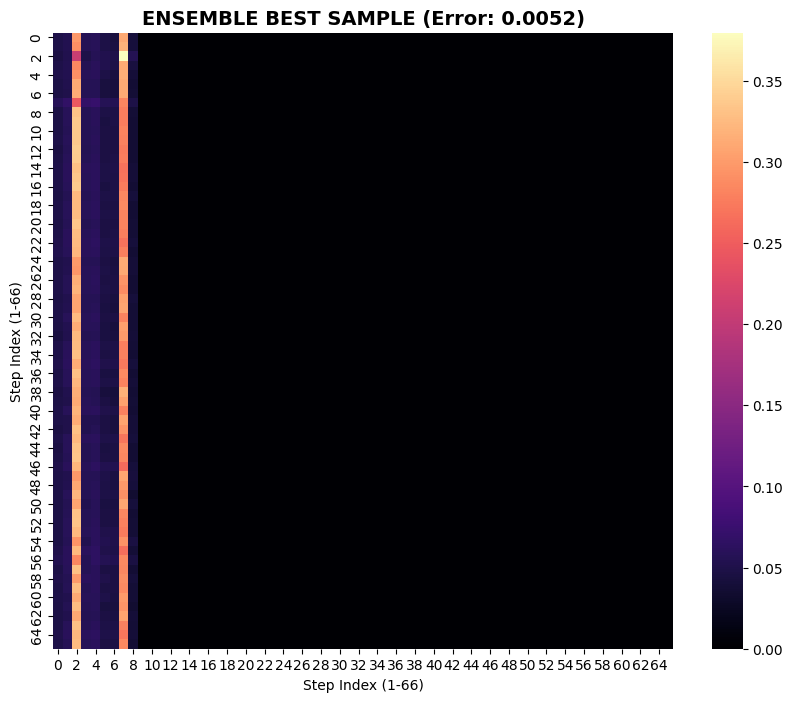
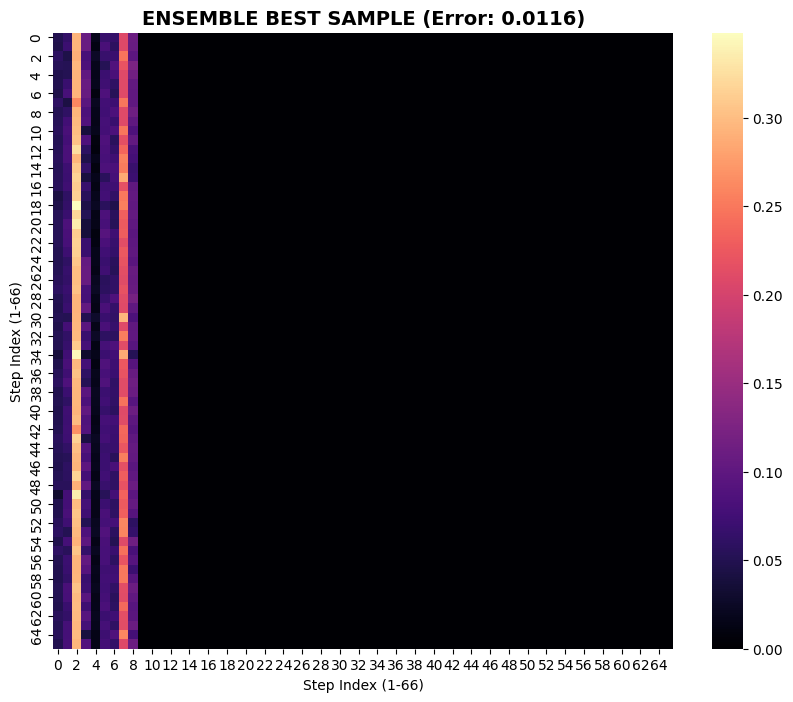
up heatmap png

diff --git a/scripts/plot/plot_feature_analysis.py b/scripts/plot/plot_feature_analysis.py
@@ -1,0 +1,147 @@
+import os
+import sys
+import torch
+import numpy as np
+import pandas as pd
+import seaborn as sns
+import matplotlib.pyplot as plt
+
+# Thêm root directory vào sys.path
+sys.path.append(os.path.abspath(os.path.join(os.path.dirname(__file__), '../../')))
+from src.models.transformer_model import TransformerModel
+
+# --- CONFIG ---
+DATA_DIR = "data/data_processed/transformer"
+MODEL_DIR = "model/kfold"
+OUTPUT_DIR = "outputs/plots"
+ATTR_NAMES = [f"attr_{i+1}" for i in range(6)]
+DEVICE = torch.device("cuda" if torch.cuda.is_available() else "cpu")
+BATCH_SIZE = 128 # Giới hạn batch size để tránh tràn RAM
+
+os.makedirs(OUTPUT_DIR, exist_ok=True)
+
+def load_ensemble_models():
+    models = []
+    folds = ["transformer_f0.pth", "transformer_f1.pth", "transformer_f2.pth"]
+    for f in folds:
+        path = os.path.join(MODEL_DIR, f)
+        if os.path.exists(path):
+            model = TransformerModel(vocab_size=30000, d_model=256, nhead=8, num_layers=4)
+            model.load_state_dict(torch.load(path, map_location=DEVICE))
+            model.to(DEVICE).eval()
+            models.append(model)
+            print(f"-> Loaded model: {f}")
+    return models
+
+def get_attr_saliency_single(models, x_input):
+    """Tính Saliency cho 1 mẫu duy nhất (Đã fix lỗi .zero_grad)"""
+    x_tensor = torch.from_numpy(x_input).long().to(DEVICE).unsqueeze(0)
+    ensemble_sal = np.zeros((6, 66))
+    
+    for model in models:
+        with torch.no_grad():
+            emb = model.embedding(x_tensor)
+        emb = emb.detach().requires_grad_(True)
+        
+        # Forward pass thủ công
+        B = emb.shape[0]
+        x = torch.cat((model.cls_token.expand(B, -1, -1), emb), dim=1)
+        x = x + model.pos_embedding
+        for layer in model.layers: x, _ = layer(x)
+        x = model.norm_final(x)
+        combined = torch.cat([x[:, 0, :], x.mean(dim=1)], dim=-1)
+        
+        out_dates = model.head_dates(combined) * model.M_dates
+        out_factory = model.head_factory(combined) * model.M_factory
+        final_out = torch.cat([out_dates[:, :2], out_factory[:, :1], out_dates[:, 2:], out_factory[:, 1:]], dim=1)
+
+        attr_grads = []
+        for i in range(6):
+            if emb.grad is not None: emb.grad.zero_()
+            final_out[0, i].backward(retain_graph=True)
+            attr_grads.append(emb.grad.detach().abs().mean(dim=-1).squeeze().cpu().numpy())
+            
+        ensemble_sal += np.array(attr_grads)
+    return ensemble_sal / len(models)
+
+def extract_manual_features(X):
+    feats = []
+    for seq in X:
+        v = seq[seq != 0]
+        if len(v) == 0: feats.append([0]*5); continue
+        feats.append([len(v), len(np.unique(v)), len(np.unique(v))/len(v), v[0], v[-1]])
+    return pd.DataFrame(feats, columns=['length', 'nunique', 'velocity', 'first_item', 'last_item'])
+
+def extract_attn_map(attn_tensor):
+    attn = attn_tensor[0]  # lấy sample đầu
+
+    if attn.dim() == 3:
+        # [heads, seq, seq]
+        attn = attn.mean(dim=0)
+    elif attn.dim() == 2:
+        # [seq, seq]
+        pass
+    else:
+        raise ValueError(f"Unexpected attention shape: {attn.shape}")
+
+    return attn[1:, 1:].cpu().numpy()
+            
+def main():
+    X_val = np.load(os.path.join(DATA_DIR, "X_val.npy"))
+    y_val = np.load(os.path.join(DATA_DIR, "y_val.npy"))
+    models = load_ensemble_models()
+    if not models: return
+
+    # --- 1. CORRELATION ---
+    print("\n[1/3] Correlation Heatmap...")
+    df_f = extract_manual_features(X_val)
+    df_t = pd.DataFrame(y_val, columns=ATTR_NAMES)
+    corr = pd.concat([df_f, df_t], axis=1).corr().loc[df_f.columns, ATTR_NAMES]
+    plt.figure(figsize=(10, 6)); sns.heatmap(corr, annot=True, cmap="coolwarm", center=0)
+    plt.title("Correlation Heatmap", fontsize=14, fontweight='bold')
+    plt.savefig(os.path.join(OUTPUT_DIR, "heatmap_correlation.png")); plt.close()
+
+    # --- 2. SALIENCY ---
+    print("[2/3] Attribute Saliency Map (50 samples)...")
+    total_sal = np.zeros((6, 66))
+    indices = np.random.choice(len(X_val), 50, replace=False)
+    for idx in indices:
+        total_sal += get_attr_saliency_single(models, X_val[idx])
+    avg_sal = total_sal / 50
+    avg_sal = (avg_sal - avg_sal.min()) / (avg_sal.max() - avg_sal.min() + 1e-9)
+    plt.figure(figsize=(15, 7)); sns.heatmap(avg_sal, xticklabels=2, yticklabels=ATTR_NAMES, cmap="magma")
+    plt.title("Attribute-Specific Positional Importance", fontsize=14, fontweight='bold')
+    plt.savefig(os.path.join(OUTPUT_DIR, "heatmap_attr_specific.png"), dpi=150); plt.close()
+
+    # --- 3. DELTA (FIX MEMORY ERROR) ---
+    print("[3/3] Delta Heatmap (Optimized Memory)...")
+    all_preds = []
+    # Dự báo theo Batch để tránh tràn RAM
+    with torch.no_grad():
+        for i in range(0, len(X_val), BATCH_SIZE):
+            batch_x = torch.from_numpy(X_val[i:i+BATCH_SIZE]).to(DEVICE)
+            preds, _ = models[0](batch_x)
+            all_preds.append(preds.cpu().numpy())
+    
+    all_preds = np.concatenate(all_preds, axis=0)
+    errors = np.mean((all_preds - y_val)**2, axis=1)
+    b_idx, w_idx = np.argmin(errors), np.argmax(errors)
+    
+    # Chỉ lấy Attention của 2 mẫu cụ thể
+    with torch.no_grad():
+        _, b_attn_list = models[0](torch.from_numpy(X_val[b_idx:b_idx+1]).to(DEVICE))
+        _, w_attn_list = models[0](torch.from_numpy(X_val[w_idx:w_idx+1]).to(DEVICE))
+        
+        # Layer cuối, mean over heads, bỏ CLS
+        b_map = extract_attn_map(b_attn_list[-1])
+        w_map = extract_attn_map(w_attn_list[-1])
+        
+    delta = b_map - w_map
+    plt.figure(figsize=(10, 9)); sns.heatmap(delta, cmap="RdBu_r", center=0)
+    plt.title("DELTA ATTENTION: BEST - WORST", fontsize=14, fontweight='bold')
+    plt.savefig(os.path.join(OUTPUT_DIR, "heatmap_delta_best_worst.png")); plt.close()
+
+    print(f"\nSuccessfully generated 3 heatmaps in: {OUTPUT_DIR}")
+
+if __name__ == "__main__":
+    main()
